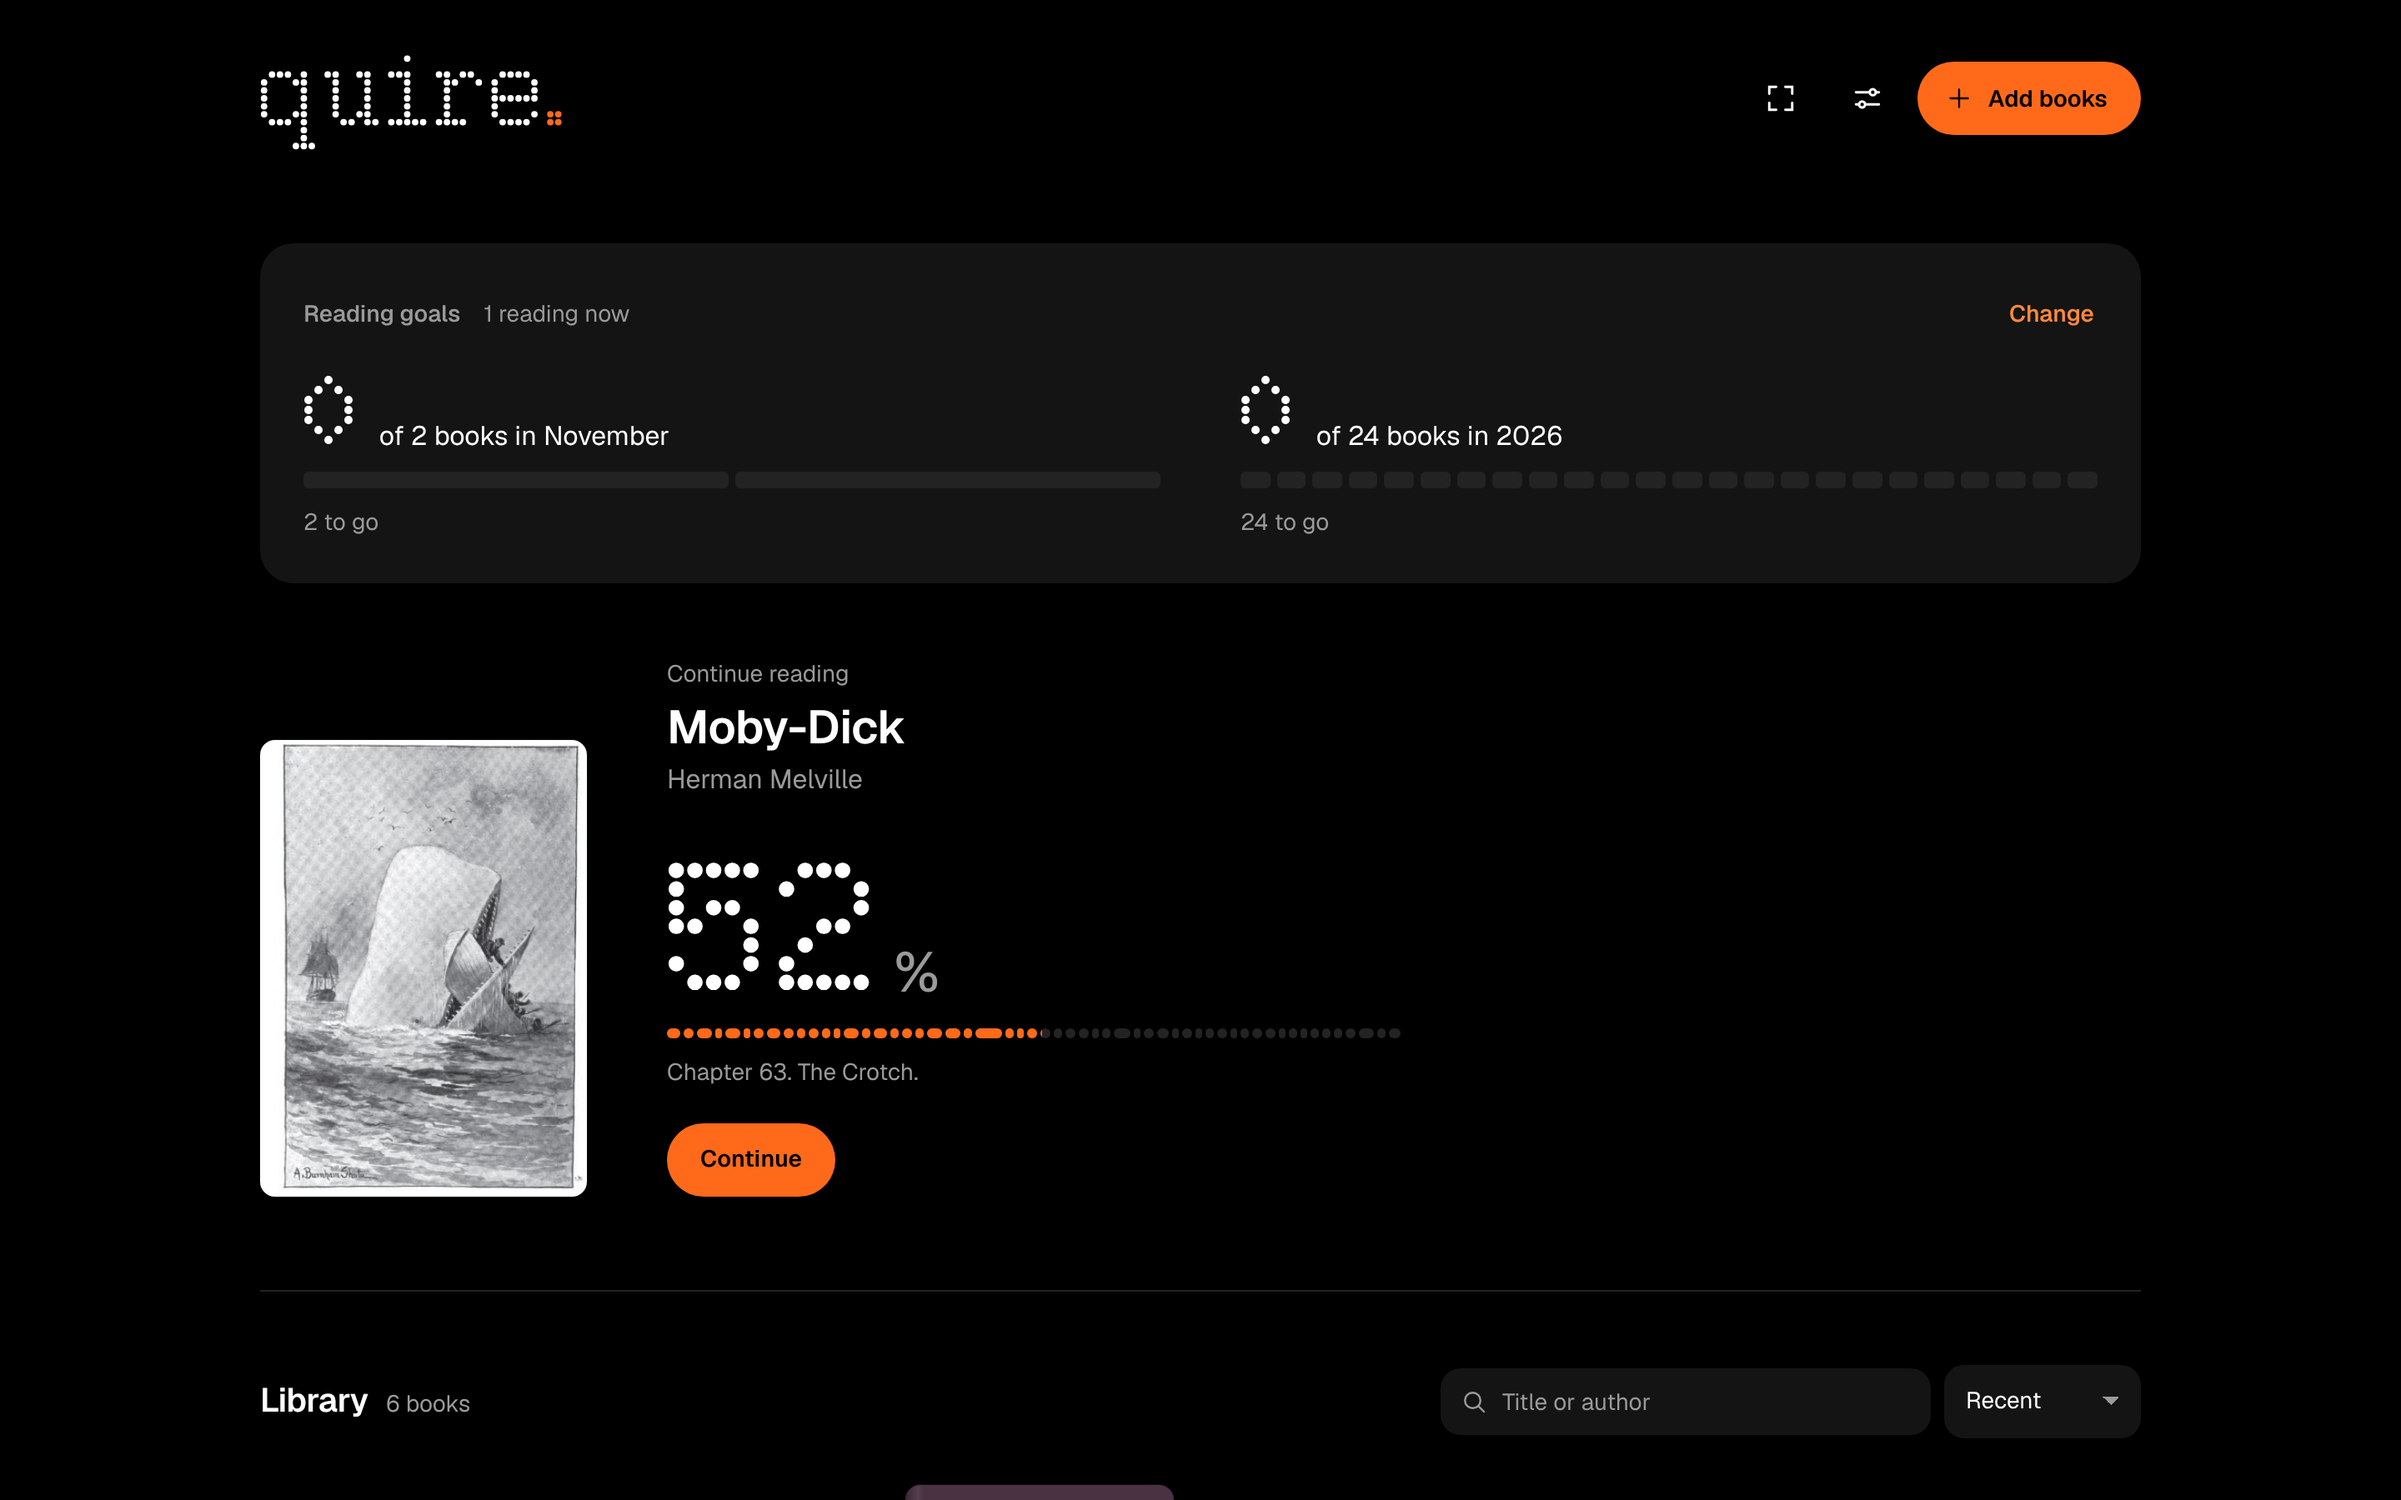
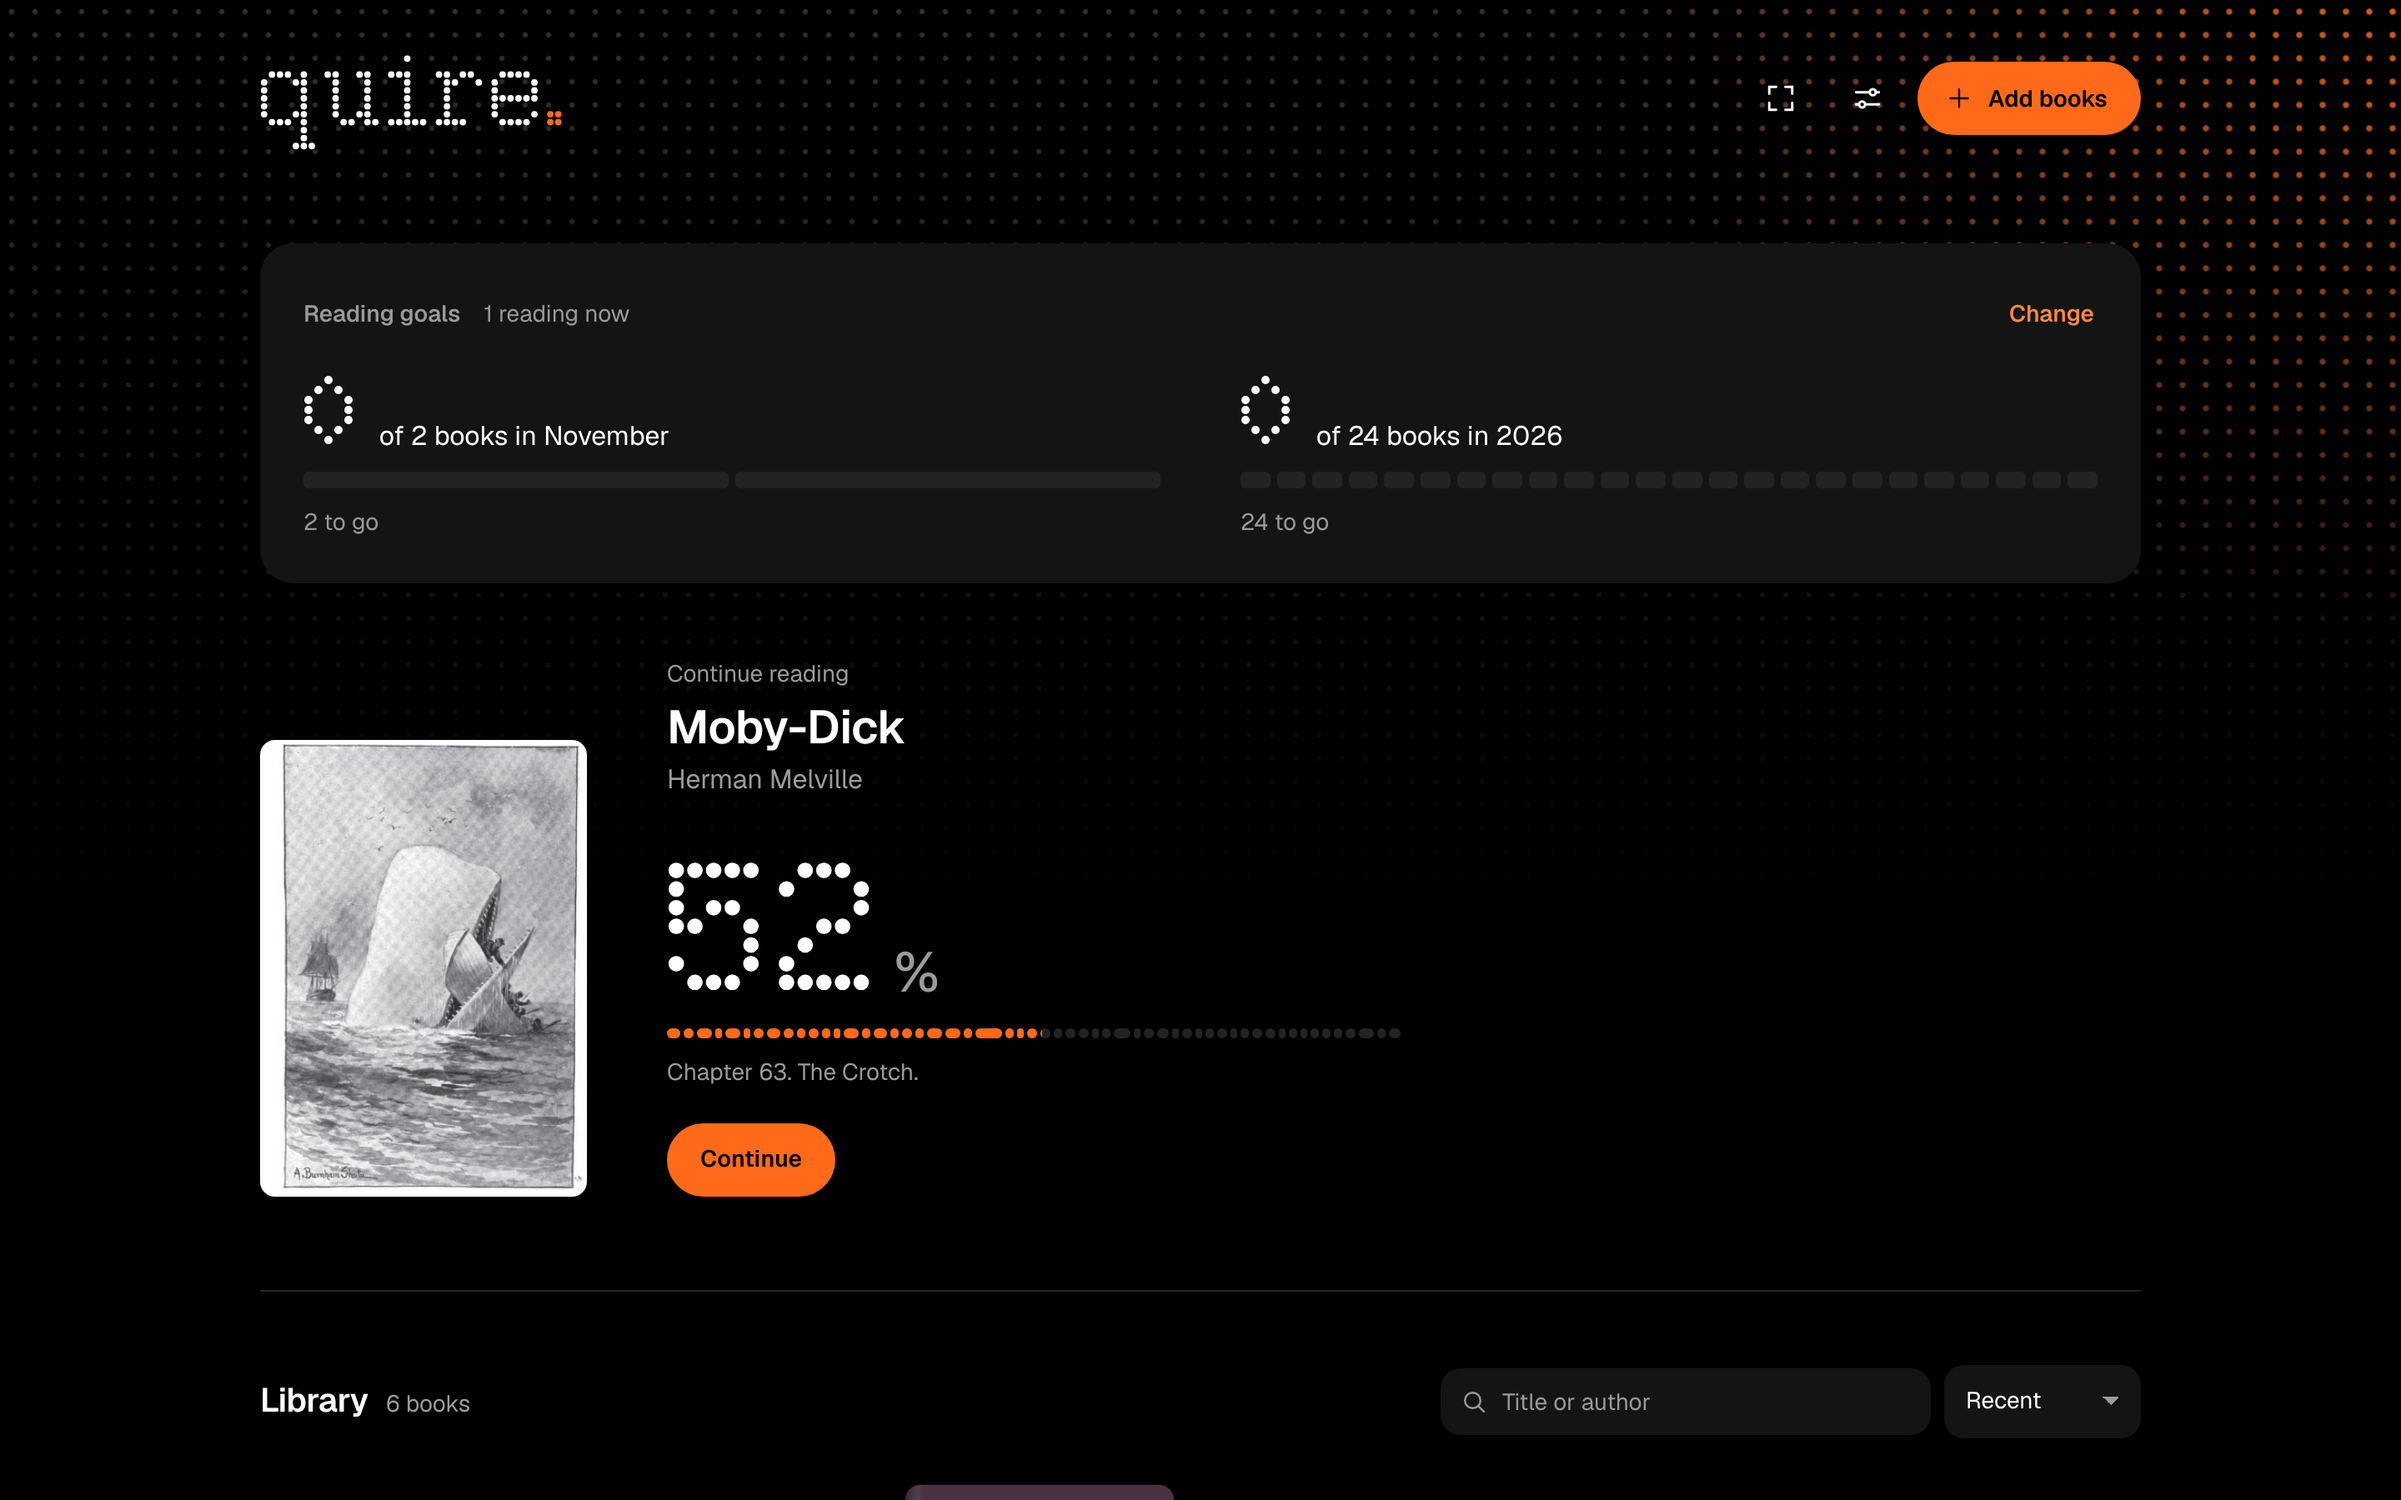
Add a home screen pattern (dots, grid, lines, diagonal) with a setting
Claude-Session: https://claude.ai/code/session_01LQowyFK6HPCPEacWGEhvGP

diff --git a/www/css/app.css b/www/css/app.css
@@ -1063,3 +1063,35 @@ body.dragging .drop-overlay { opacity: 1; }
 
 .reset-row .btn { width: 100%; }
 .font-opt[data-font="typewriter"] .font-name { font-family: 'Quire Typewriter', monospace; }
+
+/* ---------------------------------------------------------------- pattern
+   A texture behind the home screen: a band under the header that fades out
+   downward, with a cluster of accent dots in the corner, and kept clear of the cards so text stays easy to read. Settings, Advanced, Pattern. */
+:root { --pat-ink: color-mix(in srgb, var(--ink) 19%, transparent); --pat-size: 14px 14px; --pat-img: radial-gradient(circle 2px at center, var(--pat-ink) 55%, transparent 100%); }
+:root[data-pattern="grid"] { --pat-size: 28px 28px; --pat-img: linear-gradient(var(--pat-ink) 1px, transparent 1px), linear-gradient(90deg, var(--pat-ink) 1px, transparent 1px); }
+:root[data-pattern="lines"] { --pat-size: 100% 22px; --pat-img: linear-gradient(var(--pat-ink) 1px, transparent 1px); }
+:root[data-pattern="diagonal"] { --pat-size: 14px 14px; --pat-img: repeating-linear-gradient(45deg, var(--pat-ink) 0 1px, transparent 1px 10px); }
+:root[data-pattern="none"] { --pat-img: none; }
+
+body:not(.reading)::before, body:not(.reading)::after {
+  content: ''; position: absolute; z-index: -1; left: 0; right: 0; top: 0; height: min(560px, 80vh);
+  pointer-events: none;
+}
+body:not(.reading)::before {
+  background-image: var(--pat-img); background-size: var(--pat-size);
+  -webkit-mask-image: linear-gradient(to bottom, #000 0, rgba(0,0,0,.55) 45%, transparent 100%);
+  mask-image: linear-gradient(to bottom, #000 0, rgba(0,0,0,.55) 45%, transparent 100%);
+}
+/* accent dots gather in the top right corner, like the full stop of the logo */
+body:not(.reading)::after {
+  background-image: radial-gradient(circle 2.4px at center, var(--signal) 55%, transparent 100%);
+  background-size: 14px 14px;
+  -webkit-mask-image: radial-gradient(ellipse 34% 70% at 100% 0, #000 0, transparent 100%);
+  mask-image: radial-gradient(ellipse 34% 70% at 100% 0, #000 0, transparent 100%);
+  opacity: .8;
+}
+:root:not([data-pattern="dots"]) body::after, :root[data-pattern="none"] body::after { display: none; }
+body { position: relative; }
+.empty { position: relative; }
+
+@media print { body::before, body::after { display: none; } }

diff --git a/www/js/settings.js b/www/js/settings.js
@@ -30,6 +30,7 @@ export const APPEARANCES = { system: 'System', light: 'Light', dark: 'Dark' }
 export const STYLES = { quire: 'Quire', typewriter: 'Typewriter', matrix: 'Dot matrix' }
 export const UI_FONTS = { geist: 'Geist', atkinson: 'Atkinson', typewriter: 'Typewriter', system: 'System' }
 export const ACCENTS = { orange: 'Orange', red: 'Red', blue: 'Blue', green: 'Green', graphite: 'Graphite' }
+export const PATTERNS = { dots: 'Dots', grid: 'Grid', lines: 'Lines', diagonal: 'Diagonal', none: 'None' }
 export const CORNERS = { round: 'Round', square: 'Square' }
 export const UI_SIZES = { small: 'Small', default: 'Default', large: 'Large' }
 export const FOOTERS = { full: 'Pages left and percent', pages: 'Pages left in chapter', percent: 'Percent read', time: 'Time left in book', none: 'Nothing' }
@@ -57,13 +58,14 @@ export const DEFAULTS = {
   uiFont: 'geist',     // the interface typeface
   accent: 'orange',
   corners: 'round',
+  pattern: 'dots',     // the texture behind the home screen
   uiSize: 'default',   // interface text size (the book has its own)
   footer: 'full',      // what the bottom of the page shows
   leftTap: 'back',     // what a tap on the left edge does
   speed: 'normal',     // how fast pages turn
 }
 
-const ADVANCED = { style: STYLES, uiFont: UI_FONTS, accent: ACCENTS, corners: CORNERS, uiSize: UI_SIZES, footer: FOOTERS, leftTap: TAPS, speed: SPEEDS }
+const ADVANCED = { style: STYLES, uiFont: UI_FONTS, accent: ACCENTS, pattern: PATTERNS, corners: CORNERS, uiSize: UI_SIZES, footer: FOOTERS, leftTap: TAPS, speed: SPEEDS }
 
 export const PAGES = { two: 'Two pages', one: 'One page' }
 
@@ -190,6 +192,7 @@ export function applyLook(s = state) {
   d.uiFont = s.uiFont
   d.accent = s.accent
   d.corners = s.corners
+  d.pattern = s.pattern
   d.uiSize = s.uiSize
 }
 

diff --git a/www/js/app.js b/www/js/app.js
@@ -4,7 +4,7 @@ import { importFile, requestPersistence, ImportError } from './importer.js'
 import { openDB } from './db.js'
 import { $, $$, el, toast, showSheet, closeSheet, handleSheetPop, isSheetOpen, confirmDialog } from './ui.js'
 import { getFlag, setFlag, getSettings, setSettings, onSettings, applyAppMode, applyLook, onSystemThemeChange, setStyle, resetSettings,
-  APPEARANCES, STYLES, UI_FONTS, ACCENTS, CORNERS, UI_SIZES, FOOTERS, TAPS, SPEEDS } from './settings.js'
+  APPEARANCES, STYLES, UI_FONTS, ACCENTS, PATTERNS, CORNERS, UI_SIZES, FOOTERS, TAPS, SPEEDS } from './settings.js'
 
 const splashStart = performance.now()
 
@@ -289,6 +289,7 @@ function initSettingsSheet() {
     el('input', { type: 'radio', name: 'set-accent', value: key, onchange: () => setSettings({ accent: key }) }),
     el('span', { class: 'accent-dot', 'aria-hidden': 'true' }),
     el('span', { class: 'accent-name', text: label }))))
+  radios($('#set-pattern'), 'set-pattern', PATTERNS, v => setSettings({ pattern: v }))
   radios($('#set-ui-size'), 'set-ui-size', UI_SIZES, v => setSettings({ uiSize: v }))
   radios($('#set-corners'), 'set-corners', CORNERS, v => setSettings({ corners: v }))
   radios($('#set-left-tap'), 'set-left-tap', TAPS, v => setSettings({ leftTap: v }))
@@ -306,7 +307,7 @@ function initSettingsSheet() {
     if (ok) { resetSettings(); toast('Settings reset') }
   })
 
-  const RADIOS = { 'set-appearance': 'appearance', 'set-style': 'style', 'set-ui-font': 'uiFont', 'set-accent': 'accent',
+  const RADIOS = { 'set-appearance': 'appearance', 'set-style': 'style', 'set-ui-font': 'uiFont', 'set-accent': 'accent', 'set-pattern': 'pattern',
     'set-ui-size': 'uiSize', 'set-corners': 'corners', 'set-left-tap': 'leftTap', 'set-speed': 'speed' }
   const sync = () => {
     const s = getSettings()

diff --git a/www/index.html b/www/index.html
@@ -280,6 +280,11 @@
         <div class="accents" id="set-accent"></div>
       </fieldset>
       <fieldset class="setting">
+        <legend>Pattern</legend>
+        <div class="segmented seg-wrap" id="set-pattern"></div>
+        <p class="setting-note">The texture behind the top of the home screen.</p>
+      </fieldset>
+      <fieldset class="setting">
         <legend>Interface text</legend>
         <div class="segmented" id="set-ui-size"></div>
       </fieldset>

diff --git a/INSTALL.md b/INSTALL.md
@@ -67,7 +67,7 @@ Paid Apple Developer ($99 per year) removes the weekly step; ask me and I will s
 - **Focus mode** (Aa): only the text, with no running heads, page info, ribbon or mouse pointer. Click or tap the middle of the page for the menu.
 - **Full window** (Windows and Mac): press **F11**, the frame button in the library, or **F** in a book. Press **Esc**, or move the mouse to the
   top edge and click the **X** that slides down, to get the title bar and window buttons back.
-- **Settings, Advanced**: Style (Quire, Typewriter, Dot matrix), app typeface, accent colour, interface text size, corners, the page footer, left-edge tap (back or forward) and page turn speed. Typewriter also sets the book to Courier Prime; choosing another style puts your usual book font back. **Reset all settings** keeps your books, goals and name.
+- **Settings, Advanced**: Style (Quire, Typewriter, Dot matrix), app typeface, accent colour, home screen pattern, interface text size, corners, the page footer, left-edge tap (back or forward) and page turn speed. Typewriter also sets the book to Courier Prime; choosing another style puts your usual book font back. **Reset all settings** keeps your books, goals and name.
 - **Reading goals** on the home screen: tap **Change** to set books a month and books a year (the year goal can't be lower than the month goal). A book counts when you reach its end,
   or when you choose **Mark as finished** in its menu (the three dots).
 

diff --git a/README.md b/README.md
@@ -32,7 +32,7 @@ Your books stay on your device. No account, no server, no tracking.
 
 **Reading goals.** Set how many books you want to finish each month and each year. The library shows how far you are, and how many books you are reading now.
 
-**Make it yours.** Settings, Advanced, has three styles: the clean Quire look, Typewriter (the app and your books set in Courier Prime, as if typed) and Dot matrix (titles and the logo in dots). You can also change the app typeface, the accent colour (orange, red, blue, green or graphite), interface text size, square or round corners, what the bottom of the page shows, which way the left edge turns, and how fast pages turn. Reset puts it all back.
+**Make it yours.** Settings, Advanced, has three styles: the clean Quire look, Typewriter (the app and your books set in Courier Prime, as if typed) and Dot matrix (titles and the logo in dots). You can also change the app typeface, the accent colour (orange, red, blue, green or graphite), the pattern behind the home screen (dots, grid, lines or diagonal), interface text size, square or round corners, what the bottom of the page shows, which way the left edge turns, and how fast pages turn. Reset puts it all back.
 
 <img src="docs/screenshots/typewriter.png" alt="Typewriter style: the app set in Courier Prime, with the Advanced settings open" width="900">
 
